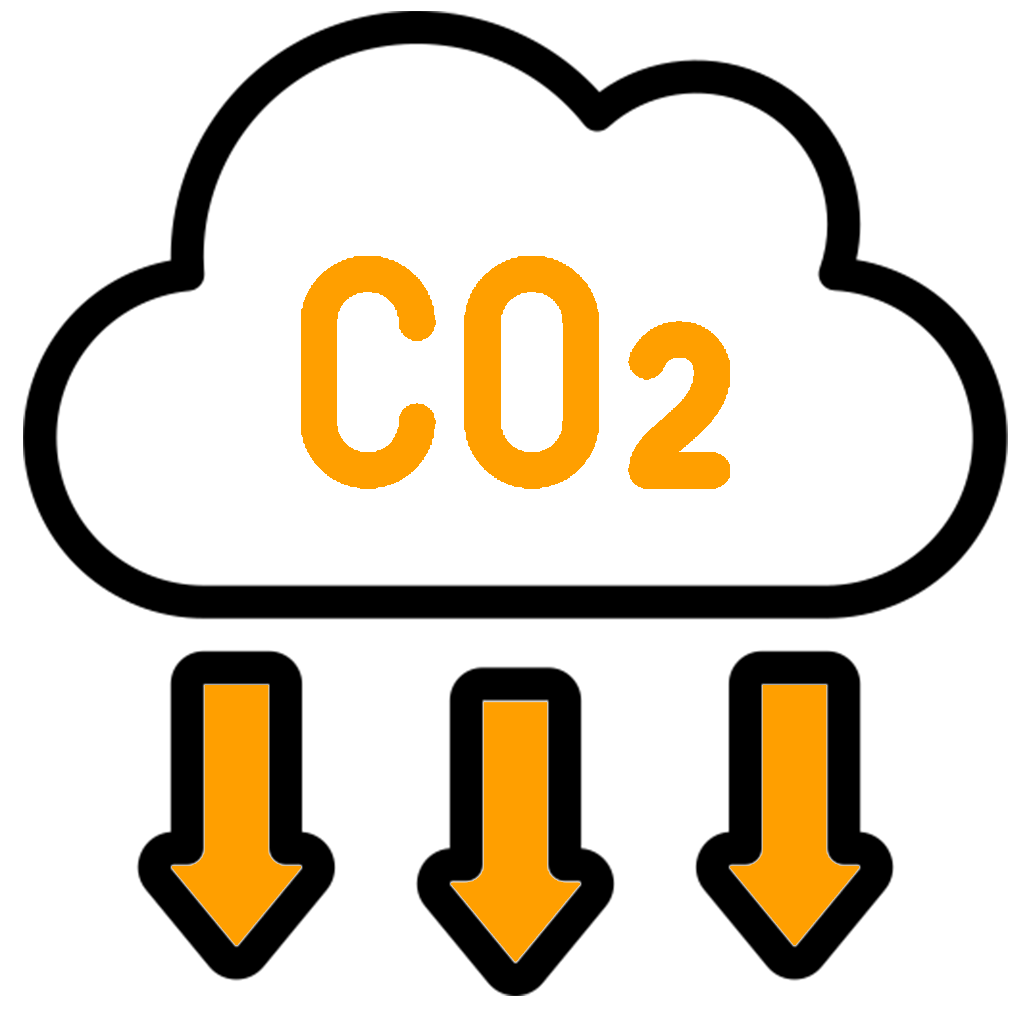
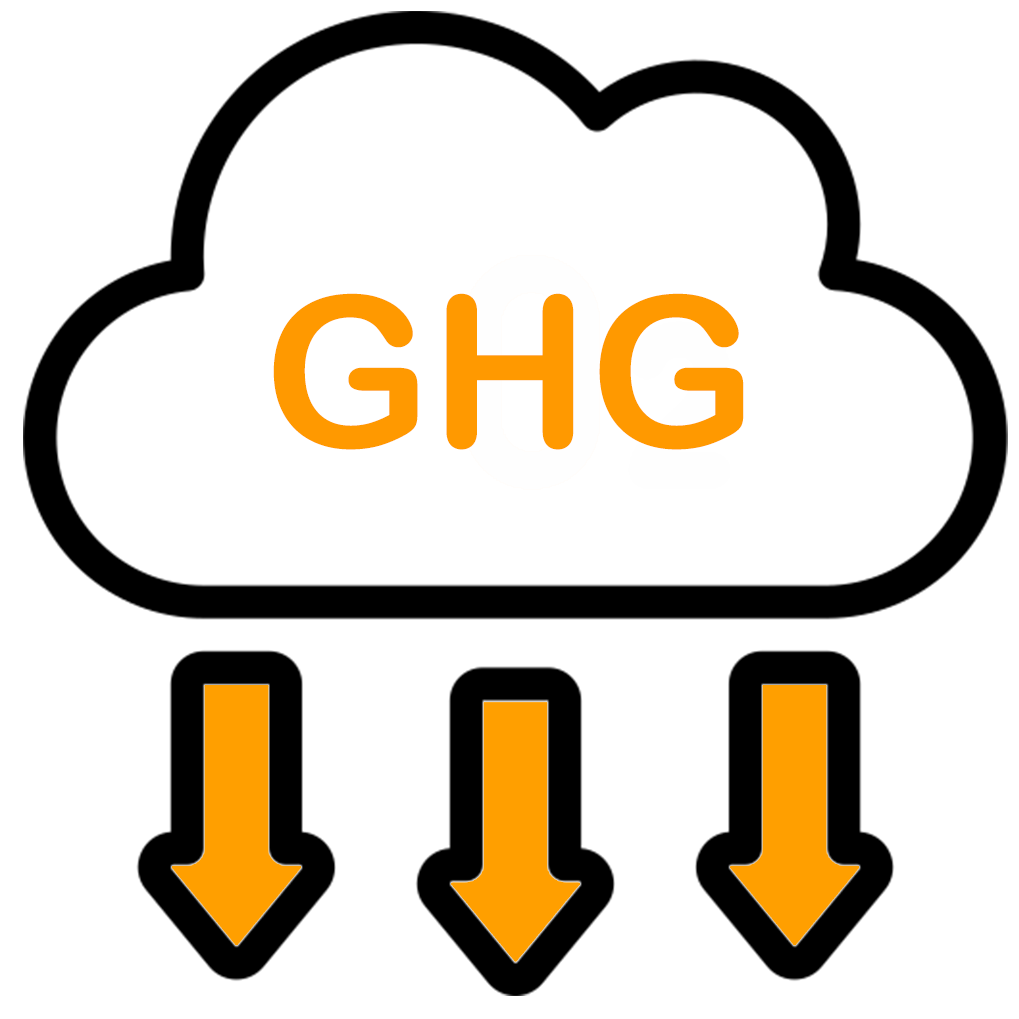
Done label corrections

Changed region(s): [[0.2434, 0.2434, 0.7301, 0.4868]]

diff --git a/src/pages/Profile/Profile.js b/src/pages/Profile/Profile.js
@@ -43,16 +43,14 @@ const Profile = () => {
 				</div>
 				<div className="mt-8 p-2">
 					<p className="border-b-[1px] border-[#e9e5fdc7] font-semibold text-slate-500 drop-shadow-lg">
-						Dummy Info:
+						Profile:
 					</p>
 					<p className="text-[12px] text-justify">
-						Lorem ipsum dolor sit amet consectetur adipisicing elit.
-						Tenetur, nostrum aperiam harum, accusantium porro eius
-						ipsam commodi consectetur voluptatem nulla earum
-						corporis fugit voluptatum architecto, voluptatibus rem
-						voluptate!, eum dolores maiores deserunt tenetur et est
-						aliquam rem. Quia id molestiae animi maiores?
+					Mr. C. Narayana Reddy is a farmer who lives in a small village in Mulugu district of Telangana. He owns around 4 acres of land which he inherited from his father. Narayana Reddy primarily grows paddy and cotton crops, which are well-suited to the fertile soil in the region.
+					
 					</p>
+					<br/>
+					<p className="text-[12px] text-justify">He has installed a solar pump to draw water from his well for irrigation purposes, and has also installed a solar rooftop system to generate electricity for his home and farm. The solar pump and rooftop system were installed in 2019, with the help of a government subsidy program aimed at promoting renewable energy adoption in rural areas.</p>
 				</div>
 			</section>
 			<section className="profile-mid-section dashboard w-8/12 min-h-[500px] rounded-md  border border-[#e9e5fd]">

diff --git a/src/components/cards/DashboardCard3.js b/src/components/cards/DashboardCard3.js
@@ -6,10 +6,10 @@ import iconImg3 from "../../images/co2 reduction.png";
 import iconImg4 from "../../images/Sustainability Score.png";
 
 const demoInfo = [
-	{ text: "Energy Produced", energy: "354 KW", img: iconImg },
-	{ text: "Energy Consumed", energy: "296 KW", img: iconImg2 },
-	{ text: "Carbon Emission Reduced", energy: "444 Mt", img: iconImg3 },
-	{ text: "Sustainability Score", energy: "126 GS", img: iconImg4 },
+	{ text: "Energy produced", energy: "832 KW", img: iconImg },
+	{ text: "Energy consumed", energy: "692 KW", img: iconImg2 },
+	{ text: "GHG emissions reduced", energy: "1,038 Mt", img: iconImg3 },
+	{ text: "Sustainability score", energy: "261 GS", img: iconImg4 },
 ];
 
 const DashboardCard3 = () => {

diff --git a/src/components/cards/DashboardCard2.js b/src/components/cards/DashboardCard2.js
@@ -6,10 +6,10 @@ import iconImg3 from "../../images/co2 reduction.png";
 import iconImg4 from "../../images/Sustainability Score.png";
 
 const demoInfo = [
-	{ text: "Energy Produced", energy: "354 KW", img: iconImg },
-	{ text: "Energy Consumed", energy: "296 KW", img: iconImg2 },
-	{ text: "Carbon Emission Reduced", energy: "444 Mt", img: iconImg3 },
-	{ text: "Sustainability Score", energy: "126 GS", img: iconImg4 },
+	{ text: "Energy produced", energy: "354 KW", img: iconImg },
+	{ text: "Energy consumed", energy: "296 KW", img: iconImg2 },
+	{ text: "GHG emissions reduced", energy: "444 Mt", img: iconImg3 },
+	{ text: "Sustainability score", energy: "126 GS", img: iconImg4 },
 ];
 
 const DashboardCard2 = () => {

diff --git a/src/components/charts/LineChart.js b/src/components/charts/LineChart.js
@@ -55,20 +55,20 @@ const LineChart = () => {
 			},
 			series: [
 				{
-					name: "Solar Pump",
-					data: [10, 15, 26, 20, 33, 22],
+					name: "Industrial Solar Rooftop",
+					data: [15, 39, 52, 45, 39, 63],
 				},
 				{
 					name: "Solar Street Light",
 					data: [30, 33, 21, 42, 19, 32],
 				},
 				{
-					name: "Industrial Solar Rooftop",
-					data: [15, 39, 52, 25, 29, 63],
-				},
+					name: "Others",
+					data: [10, 15, 26, 20, 33, 22],
+				}
 			],
 			title: {
-				text: "Daily Categorywise Energy Produced",
+				text: "Daily Categorywise Energy Production",
 				align: "center",
 				offsetY: 0,
 				offsetX: 0,

diff --git a/src/components/SelectedDistrict.js b/src/components/SelectedDistrict.js
@@ -33,7 +33,7 @@ const SelectedDistrict = ({ district, energy }) => {
 				</div>
 				<div className="w-5/6 p-2 rounded-md gradient-right  box-shadow5">
 					<p className="text-sm text-center font-semibold text-slate-500">
-						CO<sub>2</sub> Emission Reduced
+						GHG Emissions Reduced
 					</p>
 					<div className="flex items-center mt-2 gap-6 p-2  rounded-[100px] mx-4 gradient-right border border-slate-100">
 						<div className="w-16 h-16 border border-[#FE9710] rounded-full p-[2px]">

diff --git a/src/components/charts/DashboardCharts/DashboardChart2.js b/src/components/charts/DashboardCharts/DashboardChart2.js
@@ -13,7 +13,7 @@ const DashboardChart2 = () => {
 			},
 		},
 		xaxis: {
-			categories: ['Octomber','November', 'December', 'January', 'February', 'March'],
+			categories: ['November', 'December', 'January', 'February', 'March'],
 			labels: {
 				show: false,
 			},
@@ -77,7 +77,7 @@ const DashboardChart2 = () => {
 		{
 			name: "Energy Consumed",
 			
-			data: [20, 52, 48, 60, 51, 105],
+			data: [52, 48, 55, 51, 65],
 		},
 	];
 const getTotalEnergyProduced = () => {

diff --git a/src/components/Map.js b/src/components/Map.js
@@ -29,7 +29,7 @@ const Map = ({ setDistrict, setEnergy, width, title }) => {
 			/>
 			{title && (
 				<p className="absolute top-1 left-[25%]  text-[#535A6C] font-bold text-[16px]">
-					Districtwide Energy Production
+					Districtwise Energy Production
 				</p>
 			)}
 		</div>

diff --git a/src/components/charts/PieChart2.js b/src/components/charts/PieChart2.js
@@ -28,7 +28,7 @@ const PieChart2 = () => {
 			opacity: 1,
 		},
 		title: {
-			text: "Categorywise Energy Produced",
+			text: "Categorywise Energy Production (MW)",
 			align: "center",
 			offsetY: 0,
 			offsetX: 0,

diff --git a/src/components/Header.js b/src/components/Header.js
@@ -48,7 +48,7 @@ const Header = () => {
 					to="/analytic"
 					className={({ isActive }) => (isActive ? "active" : "")}
 				>
-					<li>Analytic</li>
+					<li>Analytics</li>
 				</NavLink>
 
 				{!user ? (

diff --git a/src/components/charts/DashboardCharts/DashboardChart1.js b/src/components/charts/DashboardCharts/DashboardChart1.js
@@ -75,7 +75,7 @@ const DashboardChart1 = () => {
 	const series = [
 		{
 			name: "Energy Produced",
-			data: [90, 95, 95, 100, 105],
+			data: [90, 95, 95, 98, 99],
 		},
 		
 	];
